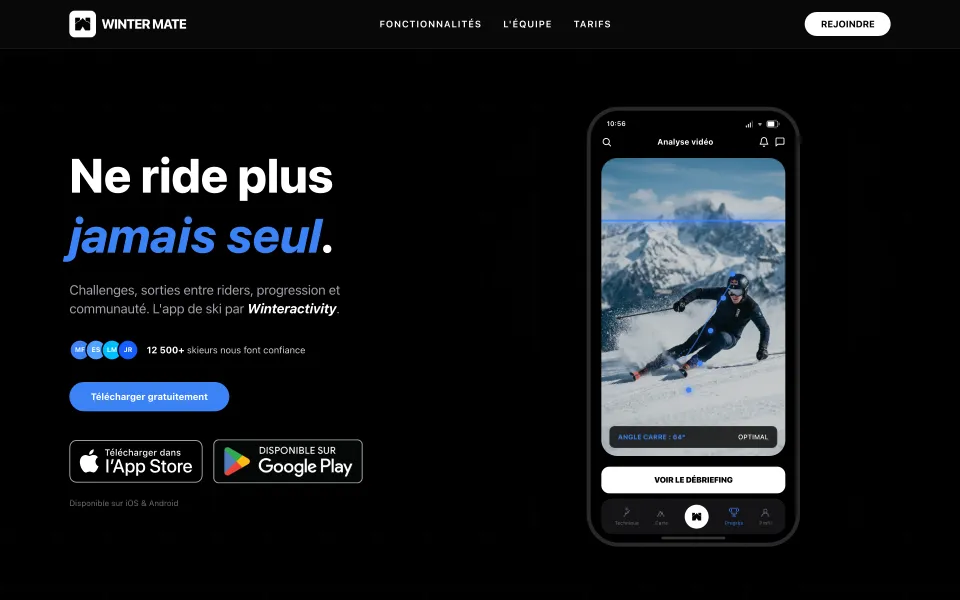
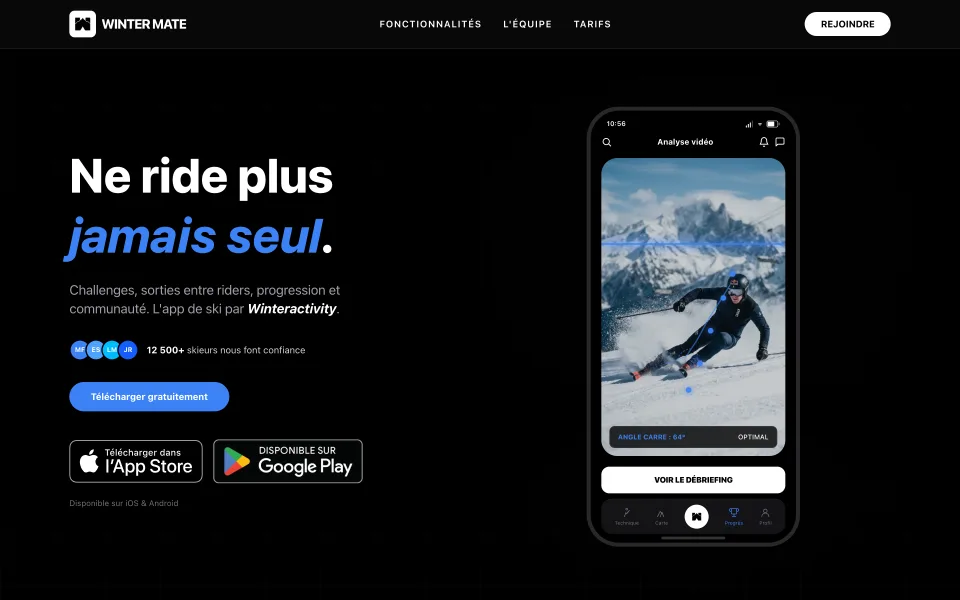
feat: 8 nouveaux projets dans la landing + captures rafraîchies des sites existants

Changed region(s): [[0.625, 0.36, 0.8125, 0.42]]

diff --git a/src/data/projects.ts b/src/data/projects.ts
@@ -9,6 +9,78 @@ export interface Project {
 
 export const projects: readonly Project[] = [
   {
+    title: "Atelier KADOR",
+    description:
+      "Site vitrine pour un atelier de joaillerie à Strasbourg. Création sur-mesure, bagues de fiançailles et showroom diamants, dans une mise en scène élégante.",
+    url: "https://atelier-kador.stakon.workers.dev/",
+    screenshot: "/screenshots/atelier-kador.webp",
+    tags: ["Next.js", "Vitrine", "Joaillerie", "Luxe"],
+    category: "vitrine",
+  },
+  {
+    title: "Style Unique",
+    description:
+      "Landing page pour une conseillère en image et personal shopper à Paris et Genève. Mise en avant des transformations et prise de rendez-vous.",
+    url: "https://style-unique-landing.stakon.workers.dev/",
+    screenshot: "/screenshots/style-unique-landing.webp",
+    tags: ["Next.js", "Vitrine", "Mode", "Conseil"],
+    category: "vitrine",
+  },
+  {
+    title: "Chaud Mirette Productions",
+    description:
+      "Site pour une agence de production audiovisuelle à Lille. Vidéos corporate et événementielles, avec un portfolio de réalisations.",
+    url: "https://chaudmiretteprod.stakon.workers.dev/",
+    screenshot: "/screenshots/chaudmiretteprod.webp",
+    tags: ["Next.js", "Vitrine", "Audiovisuel", "Portfolio"],
+    category: "vitrine",
+  },
+  {
+    title: "Webmarketing Lille",
+    description:
+      "Site pour une agence de communication digitale à Lille. SEO, réseaux sociaux et création de sites performants pour les TPE et PME.",
+    url: "https://webmarketing-lille.stakon.workers.dev/",
+    screenshot: "/screenshots/webmarketing-lille.webp",
+    tags: ["Next.js", "Vitrine", "Marketing", "SEO"],
+    category: "vitrine",
+  },
+  {
+    title: "LaboXV",
+    description:
+      "Site pour un réseau de laboratoires de biologie médicale en Île-de-France. Prise de rendez-vous, résultats en ligne et cartes interactives.",
+    url: "https://labo-xv.stakon.workers.dev/",
+    screenshot: "/screenshots/labo-xv.webp",
+    tags: ["Next.js", "Santé", "Laboratoire", "RDV"],
+    category: "nutrition",
+  },
+  {
+    title: "Sport Santé Prévention",
+    description:
+      "Site pour un cabinet pluridisciplinaire (kinésithérapeutes, psychologues, ergothérapeutes). Prévention et accompagnement, entreprises comme particuliers.",
+    url: "https://sportsanteprevention.stakon.workers.dev/",
+    screenshot: "/screenshots/sportsanteprevention.webp",
+    tags: ["Next.js", "Santé", "Vitrine", "Prévention"],
+    category: "nutrition",
+  },
+  {
+    title: "Laetitia Mathis · Kinésiologie",
+    description:
+      "Site vitrine pour une kinésiologue près de Strasbourg. Présentation de l'approche, des séances et réservation en ligne.",
+    url: "https://laetitiamathis-kinesiologie.stakon.workers.dev/",
+    screenshot: "/screenshots/laetitiamathis-kinesiologie.webp",
+    tags: ["Next.js", "Santé", "Bien-être", "RDV"],
+    category: "nutrition",
+  },
+  {
+    title: "Archibald Ouramdane",
+    description:
+      "Site pour un praticien en thérapie manuelle des fascias à Marseille. Présentation des soins et réservation en ligne en une minute.",
+    url: "https://archibald-ouramdane.stakon.workers.dev/",
+    screenshot: "/screenshots/archibald-ouramdane.webp",
+    tags: ["Next.js", "Santé", "Thérapie", "RDV"],
+    category: "nutrition",
+  },
+  {
     title: "Winter Mate",
     description:
       "Landing page pour une app mobile de ski. Analyse vidéo, challenges entre riders et communauté. 12 500+ utilisateurs.",
